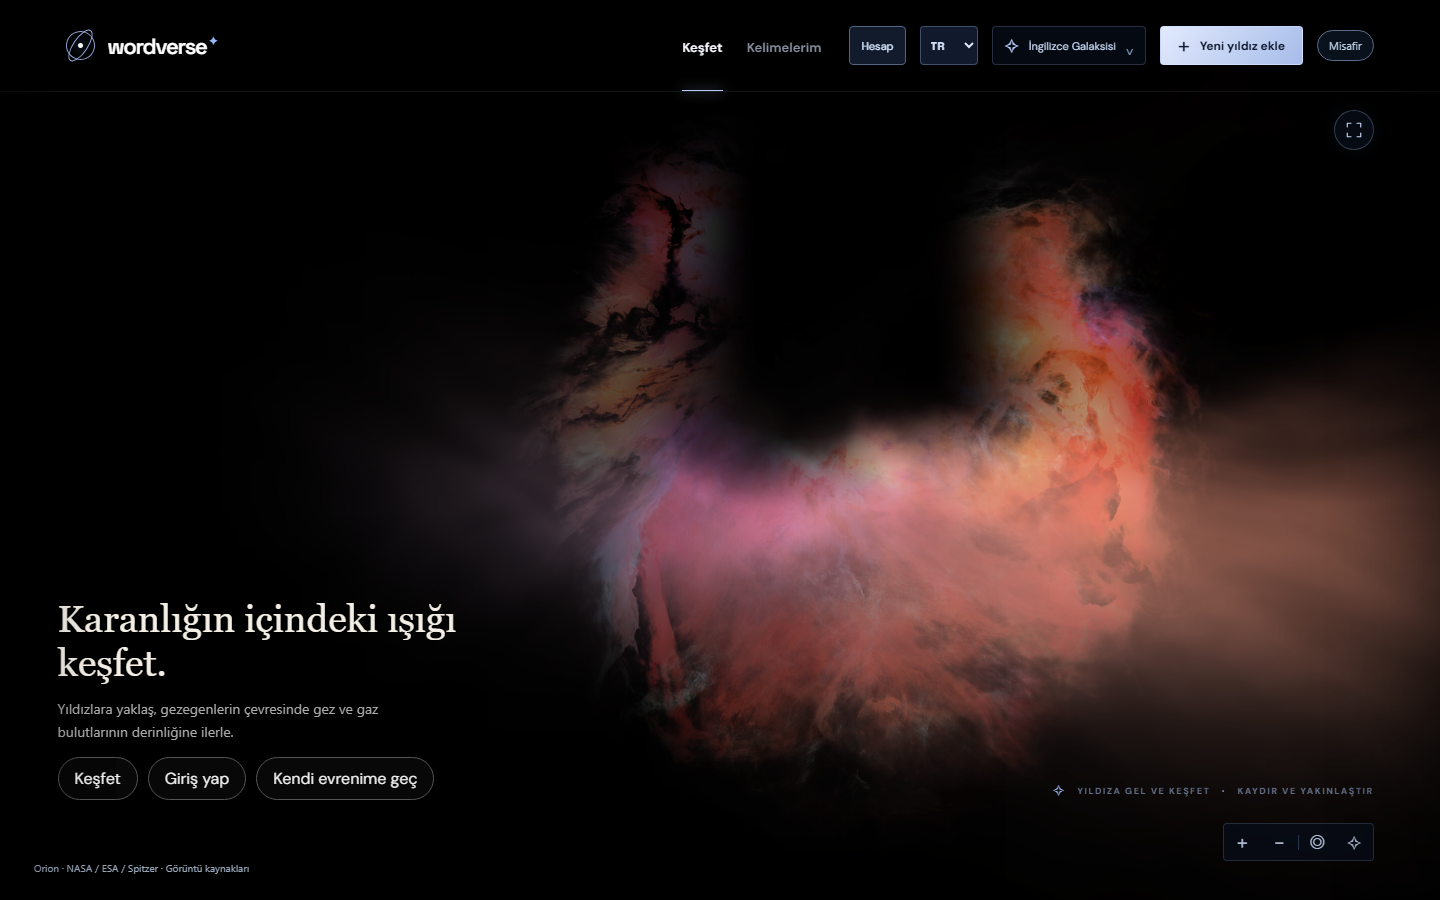
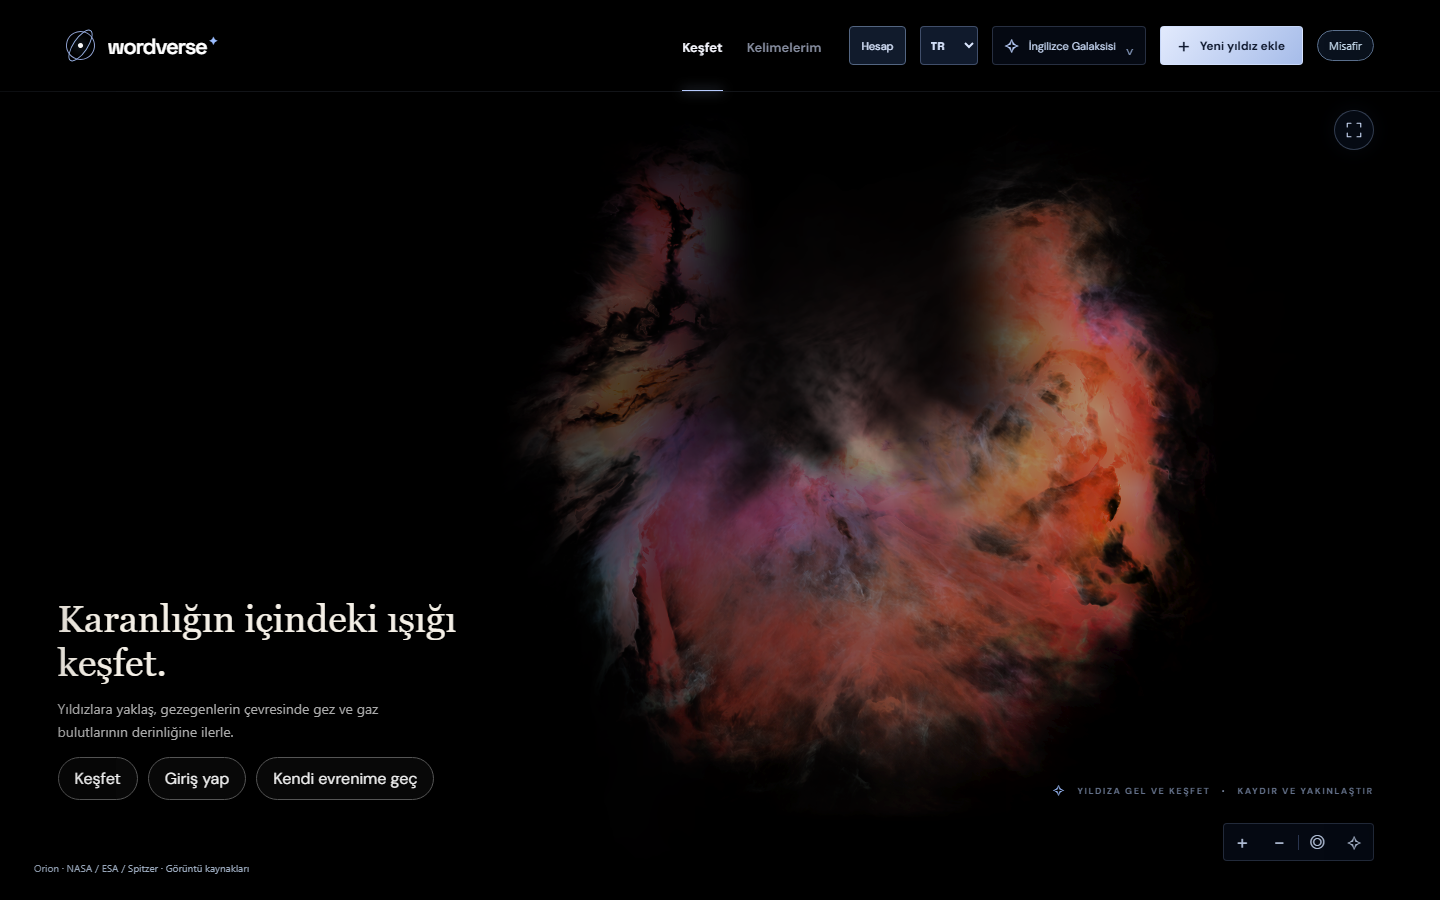
fix: replace smooth nebula side ribbons with turbulent 3D gas

Changed region(s): [[0.2812, 0.3733, 1.0, 0.84]]

diff --git a/src/nebula-system.js b/src/nebula-system.js
@@ -39,6 +39,7 @@ const fragment = `precision highp sampler3D;
 uniform sampler2D image;uniform sampler2D infrared;uniform sampler3D densityMap;
 uniform vec3 eye;uniform float time;uniform int steps;uniform float opticalLod;uniform float infraredLod;uniform float principalZ;varying vec3 localPosition;
 float cloud(vec3 p){return texture(densityMap,p*.36+vec3(.17,.31,.53)).r;}
+float plume(vec3 p,vec3 center,vec3 extent){vec3 q=(p-center)/extent;return exp(-dot(q,q)*2.);}
 float erfApprox(float v){float v2=v*v;return sign(v)*sqrt(max(0.,1.-exp(-v2*(1.2732395+.147*v2)/(1.+.147*v2))));}
 void main(){
  vec3 ray=normalize(localPosition-eye);
@@ -54,7 +55,9 @@ void main(){
  // than stretching every photographed feature through the entire ray.
  float guideDistance=(principalZ-eye.z)/safe.z;
  vec3 guidePosition=guideDistance>0. ? eye+ray*guideDistance : vec3(0.);
- vec2 uv=clamp(guidePosition.xy*.5+.5,vec2(.001),vec2(.999));
+ vec2 guideUV=guidePosition.xy*.5+.5;
+ float guideCoverage=guideDistance>0. ? (1.-smoothstep(.96,1.,max(abs(guidePosition.x),abs(guidePosition.y)))) : 0.;
+ vec2 uv=clamp(guideUV,vec2(.001),vec2(.999));
  vec3 observed=textureLod(image,uv,opticalLod).rgb;
  vec3 diffuse=textureLod(image,uv,opticalLod+5.).rgb;
  float sharpLum=max(observed.r,max(observed.g,observed.b));
@@ -72,12 +75,18 @@ void main(){
   feather*=1.-smoothstep(.87,1.,abs(p.z));
   // Open cavity facing the observer; ionization wall and dusty back layer.
 
-  float filament=pow(1.-abs(fine*2.-1.),2.);
-  float valley=-.42+.34*pow(p.x+.18*sin(p.z*2.),2.)+.16*p.z+.12*sin(p.z*3.+p.x*2.)+.22*(n-.5)+.08*(fine-.5);
-  float wall=exp(-pow((p.y-valley)/.12,2.));
-  float folds=exp(-pow((p.y-valley-.08*sin(p.z*5.+p.x*3.)-.15)/.10,2.))*.26;
-  float skirt=exp(-pow((p.y-valley+.08)/.18,2.))*.08;
-  float veil=exp(-pow((p.y-.48-.05*sin(p.z*3.))/ .12,2.))*.016;
+  // Break the smooth extruded side ribbon into a porous, corrugated medium.
+  // The same world-space field holds from the front, side and inside the cloud.
+  float micro=cloud(p*13.7+vec3(2.8,11.3,6.1));
+  float filament=smoothstep(.24,.73,fine*.45+micro*.55);
+  float branches=smoothstep(.24,.64,n*.45+fine*.55);
+  float valley=-.42+.34*pow(p.x+.18*sin(p.z*2.),2.)+.16*p.z+.12*sin(p.z*3.+p.x*2.)+.42*(n-.5)+.18*(fine-.5);
+  vec3 flow=p+vec3(n-.5,fine-.5,micro-.5)*.28;
+  // Finite three-dimensional lobes replace the infinitely extruded thin wall.
+  // Their overlap is eroded by the shared turbulent field, never a flat skirt.
+  float wall=(plume(flow,vec3(-.34,-.24,.15),vec3(.42,.32,.68))*.7
+             +plume(flow,vec3(.38,-.04,-.2),vec3(.38,.48,.57))*.8
+             +plume(flow,vec3(.02,.22,.38),vec3(.47,.34,.45))*.45)*branches;
   // Keep telescope detail aligned in XY; projecting a photo onto XZ produced
   // stretched radial streaks along the long flight walls.
   // The deep medium uses diffuse colour, avoiding extrusion of photographed
@@ -85,7 +94,7 @@ void main(){
   float warm=smoothstep(-.8,.8,p.x+.45*p.z+(.5-n)*.4);
   vec3 gasColor=mix(macroColor,mix(vec3(.19,.16,.29),vec3(.48,.23,.16),warm),.38);
   float gas=smoothstep(.006,.24,max(gasColor.r,max(gasColor.g,gasColor.b)))*feather;
-  gas*=(wall*1.2+folds+skirt+veil)*(.25+1.1*n*n)*(.5+.7*filament);
+  gas*=wall*(.12+1.25*n*n)*(.1+1.2*filament);
   float dust=smoothstep(.48,.7,cloud(p*3.9+vec3(7.,3.,2.)))*(1.-smoothstep(.04,.2,lum));
   float offset=p.z-principalZ;
   float halfStep=abs(ray.z*stride)*.5;
@@ -93,7 +102,7 @@ void main(){
   if(abs(offset)<.22+halfStep){
     ridge=halfStep>.0001 ? .055*.8862269*(erfApprox((offset+halfStep)/.055)-erfApprox((offset-halfStep)/.055))/(2.*halfStep) : exp(-pow(offset/.055,2.));
   }
-  float backing=ridge*smoothstep(.006,.23,max(observed.r,max(observed.g,observed.b)))*feather;
+  float backing=ridge*smoothstep(.006,.23,max(observed.r,max(observed.g,observed.b)))*feather*guideCoverage;
   float opening=(1.-smoothstep(.25,.65,abs(p.x)))*smoothstep(valley+.1,valley+.3,p.y);
   backing*=1.-opening;
   gas+=backing*2.5;

diff --git a/src/star-nebula-transmission.js b/src/star-nebula-transmission.js
@@ -7,6 +7,10 @@ export function createStarTransmission(medium) {
     point = new Vector3();
   const data = medium.density.image.data,
     size = medium.density.image.width;
+  const smooth = (a, b, v) => {
+    const t = Math.max(0, Math.min(1, (v - a) / (b - a)));
+    return t * t * (3 - 2 * t);
+  };
   function cloud(x, y, z) {
     const wrap = (v) => ((Math.floor((v - Math.floor(v)) * size) % size) + size) % size;
     return data[wrap(x * 0.36 + 0.17) + size * (wrap(y * 0.36 + 0.31) + size * wrap(z * 0.36 + 0.53))] / 255;
@@ -46,18 +50,23 @@ export function createStarTransmission(medium) {
         y = eye.y + dy * t,
         z = eye.z + dz * t;
       const n = cloud(x * 1.6, y * 1.6, z * 1.6),
-        fine = cloud(x * 4.8 + 5.3, y * 4.8 + 1.7, z * 4.8 + 9);
-      const valley =
-        -0.42 +
-        0.34 * (x + 0.18 * Math.sin(z * 2)) ** 2 +
-        0.16 * z +
-        0.12 * Math.sin(z * 3 + x * 2) +
-        0.22 * (n - 0.5) +
-        0.08 * (fine - 0.5);
-      const wall = Math.exp(-(((y - valley) / 0.12) ** 2)),
+        fine = cloud(x * 4.8 + 5.3, y * 4.8 + 1.7, z * 4.8 + 9),
+        micro = cloud(x * 13.7 + 2.8, y * 13.7 + 11.3, z * 13.7 + 6.1);
+      const fx = x + (n - 0.5) * 0.28,
+        fy = y + (fine - 0.5) * 0.28,
+        fz = z + (micro - 0.5) * 0.28;
+      const plume = (cx, cy, cz, sx, sy, sz) =>
+        Math.exp(-2 * (((fx - cx) / sx) ** 2 + ((fy - cy) / sy) ** 2 + ((fz - cz) / sz) ** 2));
+      const branches = smooth(0.24, 0.64, n * 0.45 + fine * 0.55),
+        filament = smooth(0.24, 0.73, fine * 0.45 + micro * 0.55),
+        wall =
+          (plume(-0.34, -0.24, 0.15, 0.42, 0.32, 0.68) * 0.7 +
+            plume(0.38, -0.04, -0.2, 0.38, 0.48, 0.57) * 0.8 +
+            plume(0.02, 0.22, 0.38, 0.47, 0.34, 0.45) * 0.45) *
+          branches,
         feather = Math.max(0, 1 - Math.hypot(x, y));
       const dust = Math.max(0, cloud(x * 3.9 + 7, y * 3.9 + 3, z * 3.9 + 2) - 0.48);
-      depth += ((wall * (0.25 + 1.1 * n * n) + dust * 2) * feather * length) / steps;
+      depth += ((wall * (0.12 + 1.25 * n * n) * (0.1 + 1.2 * filament) + dust * 2) * feather * length) / steps;
     }
     return Math.exp(-depth * 2.2);
   };

diff --git a/tests/fixtures/word-star-lab.html b/tests/fixtures/word-star-lab.html
@@ -54,7 +54,9 @@
     <nav aria-label="Yıldız görüşleri">
       <button id="general">Genel dağılım</button><button id="far">En uzak</button><button id="home">Genel</button
       ><button id="focus">Yaklaş</button><button id="approach">%55 yaklaşım</button><button id="close">Yüzey</button
-      ><button id="side">Yanından geç</button><button id="passed">Arkasında</button><button id="freeze">Hareket</button>
+      ><button id="side">Yanından geç</button><button id="passed">Arkasında</button
+      ><button id="nebula-side">Bulutsu yan kadraj</button><button id="nebula-angle">Bulutsu yan açı</button
+      ><button id="freeze">Hareket</button>
     </nav>
     <footer>
       <strong>Wordverse / kelime yıldızı</strong><br />Tek yıldız ailesi · beyaz sıcak ışık · granülasyon · ince
@@ -100,6 +102,8 @@
         close: [31, 0, 19.3],
         side: [32.2, 0, 18.4],
         passed: [32.2, 0, 17],
+        'nebula-side': [-850, 0, 160],
+        'nebula-angle': [1050, 0, -600],
       };
       let shot = 'home',
         moving = !matchMedia('(prefers-reduced-motion:reduce)').matches;
@@ -114,7 +118,8 @@
       renderer.setAnimationLoop((ms) => {
         if (document.hidden) return;
         camera.position.fromArray(views[shot]);
-        camera.lookAt(camera.position.x, camera.position.y, camera.position.z - 100);
+        if (shot === 'nebula-angle') camera.lookAt(...gas.records[0].position);
+        else camera.lookAt(camera.position.x, camera.position.y, camera.position.z - 100);
         camera.updateMatrixWorld();
         gas.update(moving ? ms * 0.001 : 0, renderer.getPixelRatio(), innerHeight);
         stars.update(moving ? ms * 0.001 : 0, camera, innerHeight, renderer.getPixelRatio(), {

diff --git a/e2e/word-stars.spec.js b/e2e/word-stars.spec.js
@@ -1,5 +1,25 @@
 import { expect, test } from '@playwright/test';
 
+test('Orion volume renders lateral framing and a genuine side view without writing records', async ({ page }) => {
+  const errors = [];
+  page.on('pageerror', (error) => errors.push(error.message));
+  page.on('console', (message) => {
+    if (message.type() === 'error') errors.push(message.text());
+  });
+  await page.setViewportSize({ width: 1440, height: 900 });
+  await page.emulateMedia({ reducedMotion: 'reduce' });
+  await page.goto('/tests/fixtures/word-star-lab.html');
+  const canvas = page.locator('#star-lab');
+  await expect(canvas).toHaveAttribute('data-ready', 'true');
+  for (const view of ['nebula-side', 'nebula-angle']) {
+    await page.locator(`#${view}`).click();
+    await expect(canvas).toHaveAttribute('data-shot', view);
+    await expect(canvas).toHaveAttribute('data-refined', 'true');
+  }
+  expect(await page.evaluate(() => localStorage.length)).toBe(0);
+  expect(errors).toEqual([]);
+});
+
 test('word-star optics, surface, lateral passage and return use one continuous body', async ({ page }) => {
   const errors = [];
   page.on('pageerror', (e) => errors.push(e.message));

diff --git a/docs/handoff/HANDOFF.md b/docs/handoff/HANDOFF.md
@@ -1,5 +1,16 @@
 # Devir durumu
 
+## Aktif düzeltme · yan bulutsu görünümü · 2026-10-04
+
+Masaüstü `yan.png` incelendi. Sorun kelime yıldızında değil, ana Orion ayrıntısının yanından çıkan pürüzsüz mor şeritteydi. Bu bölüm aşağıdaki hacim kararlarını günceller; kullanıcı verisi ve yıldız optikleri korunur.
+
+- İnce Gaussian duvarın bütün derinlik boyunca uzaması ve düz skirt/veil katmanları kaldırıldı. Yan gaz üç sonlu 3B yoğunluk bölgesinin örtüşmesinden, dünya koordinatında türbülans deformasyonu ve farklı ölçekte lif/boşluk maskelerinden oluşur. Bu **sanatsal hacim modeli**, gözlemsel tomografi değildir.
+- Fotoğraf rehberinin UV sınırı dışında kenar pikselini uzatmak yerine gözlemsel sırt katkısı sönümlenir. Ana yıldızsız doku native 1254² olarak kalır; yeni görsel üretimi/upscale yok.
+- `star-nebula-transmission.js` aynı yeni hacim bölgeleriyle güncellendi; arka yıldız sönümü eski ince duvarı kullanmaz. Kalibre optik derinlik değildir.
+- Sentetik fixture'a `Bulutsu yan kadraj` (kamera x=-850,z=160) ve gerçek `Bulutsu yan açı` (kamera x=1050,z=-600, hacim merkezine bakış) eklendi. Son kaynak PNG'leri `word-star-nebula-side-1440.png`, `word-star-nebula-angle-1440.png`; ön/genel/yıldız kanıtları da yeniden üretildi ve gözle incelendi. Kullanıcının Masaüstü SS'i Git'e kopyalanmaz.
+- Son kaynakta **114 unit ve lint/format/typecheck/build geçti**. İlgili **8/8 tarayıcı kontrolü geçti (1.7 dakika)**; önceki tam 78/78 bu değişiklikten öncedir. Önceki checkpoint `6e7177a` remote Check **37217546979 başarılı**; yeni değişikliğin remote başarısı değildir. Son kaynakta uzun uçuş 20.3 s, yan açı 6.2 s, optikler 18.0 s, kayıt korunması 14.6 s ve güvenli hedef mesafesi 23.2 s geçti. Yeni 79 testlik tam yerel tur çalıştırılmadı.
+- Gerçek 5360 tarayıcısında ön kadraj ve sağa sürüklenen yan bölge incelendi; pürüzsüz mor şerit kaldırıldı. Kullanıcı kayıtlarına yazılmadı. Kod/kanıt/devir checkpoint’i aynı aktif dalda commit/push edilir. U2 genel görsel kabulü, daha ayrıntılı yıldızsız doku, bilimsel kalibrasyon ve gerçek mobil GPU bütçesi açık kalır.
+
 ## Aktif referans / random yıldız / hedef zoom · 2026-10-04
 
 Uygulama checkpoint **8511118**, `phase/4-universe`; belge takip commit’i aynı push paketindedir. Yeni remote Check sonucu henüz doğrulanmış değildir; en güncel run kontrol edilmeli. Bu üst bölüm aşağıdaki 302c6fa checkpoint kararlarını günceller. Son kullanıcı `yaklaşım.png`, `genel.png`, `uzaktan görünüş.png` referanslarının analizi, %55 yaklaşım ışığı, yalnız kendi yıldızları, random ekran/depth konumları ve seçilen yıldıza kilitli daha yavaş zoom istedi. [Sıralı uygulama planı](STAR_REFERENCE_PLAN.md).
